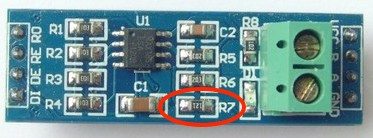
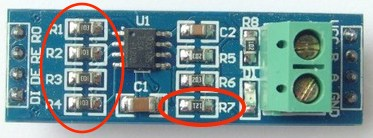
Updates for read-mes, and what-not

Changed region(s): [[0.0885, 0.0, 0.3539, 0.9855], [0.6193, 0.8406, 0.6488, 0.8696]]

diff --git a/README.md b/README.md
@@ -57,7 +57,83 @@ I've had a couple Raspberry Pi's laying about my home for a few years now. After
 HVAC system (a Bryant unit) is actually a 'communicating' system as well. I've had in the back of my mind for some time a project to hook up
 a raspberry pi, and track long-term time-series data on my HVAC unit, performance, and temperature differentials.
 
+### Off The Shelf Module Shortcomings / Circuit Analysis / Reasons this project exists.
 
+Almost every module I've looked at is based on the [MAX485](http://datasheets.maximintegrated.com/en/ds/MAX1487-MAX491.pdf).
+
+#### Overly simplistic opinionated view of RS-485.
+It seems that off-the-shelf modules tend to approach the MAX485 series of half-duplex (two wire RS485) chips as a pretty simple TTL->485 
+converter, suitable for locating at the _endpoints_ of a very simplistic single master-slave network. In order to drop in multiple modules 
+(multiple slaves) or enable multi-master communications and form a true network, there's some hardware work that needs to be done (removing
+termination resistors) and software control of the RE / DE with a GPIO (which open you up to a whole slew of software timing issues).
+
+#### Soldered on Termination
+For example, the LinkSprite module and the LC Tech modules both carry 120Ohm termination resistors, and no jumper header to remove it from
+the circuit. The only practical option to add these modules as a network node other than an 'end point' is to unsolder that resistor.
+
+#### Lack of TX / RX Visibility
+I like [blinkenlights](https://en.wikipedia.org/wiki/Blinkenlights). These products should have blinkenlights.
+
+#### DE / RE Pin Hysteresis 
+Additionally, the LC Tech module has the DE and RE pins of the Max485 directly accessible over headers but provides no extra circuitry to 
+drive the input to those pins based off the TTL TX. These two pins of a Max485 are responsible for setting the duplex state of the chip 
+(Driver Enable / Receiver Enable) for either sending or receiving data. The RE pin is active on Logic Low (GND) and the DE pin is active on 
+Logic High (~20ma of forward voltage). For this reason, you'll commonly see these pins wired together. When set High, the Max485 disables
+receiving, and enables transmitting. When pulled low, it enables receiving and disables transmitting. The LC Tech module seems to defy all 
+logic and reason in how it wires up the DI, DE, RE, and RO pins. Each pin has a 10k pull-up resistor. So unless you're actively draining 
+these pins to ground with your logic circuits,  your max485 is going to end up in "write" mode by _default_. In a multi-master half-duplex
+system like an HVAC unit (the initial target application for pi485) this causes a big problem.
+
+I've found many schematics which suggest tying the DE / RE pins to a separate GPIO. This is a terrible idea in practice. In a busy RS485 bus
+the time between the DI/DE pins shifting and the start of output on the TX pin would effectively guarantee a collision on the network.
+
+I've also found schematics for RS-232 -> RS-485 converters which work by converting the 232 signal to TTL, then the TTL to RS-485. In these
+circuits, they tend to leverage a 555 timer as a time-delayed latch, to hold the DE / RE pins in transmit mode based on the state of the TTL
+TX pin. This seems like a really good idea in theory, and in circuit simulations (I don't have a physical scope) it appears that the 555
+output will respond quickly enough for at least a 38400baud network to cleanly communicate all the necessary symbols over the wire (given 
+the sizing of resistors and capacitors in use with the 555).
+
+In this [555 TTL Latch Simulation](http://tinyurl.com/hx6gfwh), there's a +5V supply, GND, and a H/L logic input (clickable) on the left. 
+The output pin of the 555 has a H/L output detector on it, and drives an NPN transistor to turn on an LED. In a real circuit using this 
+technique, the 555 output pin would drive the DE/RE pins on a Max485. As an example, checkout the 
+[AVT530](http://serwis.avt.pl/manuals/AVT530.pdf), an RS232 to RS485 converter that uses TTL as an intermediary. The schematic is on page 2.
+
+The same company also uses this same 555 & Max485 circuit on their [USB to RS485](http://serwis.avt.pl/manuals/AVT530USB.pdf) converter.
+
+The down-side with these circuits, is that there is a timing differential after the TX pin stops transmitting that the RE pin is held high.
+Recall earlier I mentioned things about start / stop bits? This is where that comes into play.
+At 38400Hz (as in the simulation above) this delay accounts for an entire clock cycle of bit transmission on the bus. In the interactive 
+simulations above, note how if you switch the TTL input high (0 or idle) it takes 2 clocks before the 555 sets the output back low. If your
+bit protocol doesn't include a stop bit (idle / high) then the DE / RE will not be disabled at the appropriate time. Without stop bits, you 
+will transmit one extra idle (logical 1) on the 485 bus and miss receiving a bit for a clock with these latched circuits.
+
+Here's another [simulation of the 555 latch circuit with pulsed input](http://tinyurl.com/hn6zreu). In this revision, we've added a pull-up
+resistor (5k) to the input trigger to hold it 'high' when idle, moved the input clk to drive a decade counter, and tied output pins from the
+counter to switch an NPN transistor that sinks the trigger pin low when the counter has a high output. Think of the counter as sending 
+logical 1's and 0's by pushing a switch. When the switch (transistor) is closed, the TR voltage drops to ground. If you have start or stop
+bits enabled in your stream, this initial drop (0) will be the start bit, which will trigger the 555 output high. In the AVT circuits, this 
+drives the RE / DE pins high, putting the MAX485 into transmit mode. An idle 'high' stop bit (Q8) will let the timer's capacitor drain, 
+resetting it's output pin. But if you're not using start / stop bits... and you're just getting a stream of bits that is synchronized 
+in software, then using a 555 latch is going to be asking for trouble.
+
+In looking at the LinkSprite module, I found it interesting that it dispenses with a time-delay latch and supplies power to the DE / RE pins
+via MOSFETS switching a 0.33mA current based upon the TX input. This seems rather 'icky' to me, since logically I would think the DE / RE
+pins going 'high' whenever the TTL signal goes idle, would cause an issue. So I threw together a 
+[simulation of the TTL input with MOSFET](http://tinyurl.com/glnvxa2) triggers. This confirmed what I thought as far as behavior without 
+delay. The good news here, is if you're sending a '0' on the RS-485 bus, you'll transmit that 0, and be prepared to receive any values from
+the bus immediately afterward. So if your protocol doesn't use stop bits, you'll be able to read the stream without error. The natural
+question at this point is, "what if I'm trying to transmit a '1' (logical TTL high / idle value)?" In that case, the DE pin would be pulled
+low, along with the RE pin, putting the MAX485 into Driver disable, Receiver Enabled mode. I'm not sure if this would effectively pulse the
+RS-485 bus in an appropriate manner. The Bus signals bits based on bias differences between the two wires, A and B. Something about this
+arrangement smells funny.
+
+According to the stuff I've read on RS-485, a driver 'idle' would be A+, B- potentials. After pouring over the Max485 datasheet, I don't see
+anything that will lead me to believe RE high / DE low would result in A+, B- potentials being emitted on output lines of the chip.
+
+Nevertheless, it must work... right? Unless the LinkSprite and LC Tech components aren't being tested in multi-master half-duplex 
+networks. I have a feeling that's exactly what's going on, since they both carry soldered-on termination resistors that cannot be 
+jumper-disabled. That means that if you introduced a network of these devices with more than two nodes, you'd have pretty significant signal
+degradation.
 
 
 

diff --git a/standalone/README.md b/standalone/README.md
@@ -101,81 +101,6 @@ black-boxes (things which I cannot take apart or understand completely) and it's
 take that knowlege and apply it to things I synthesize. But, I consider electronics a 'hobby'. My comments here are my own personal opinions
 and are not an endorsement.
 
-## Off The Shelf Module Shortcomings / Circuit Analysis
-
-Almost every module I've looked at is based on the [MAX485](http://datasheets.maximintegrated.com/en/ds/MAX1487-MAX491.pdf).
-
-### Overly simplistic opinionated view of RS-485.
-It seems that off-the-shelf modules tend to approach the MAX485 series of half-duplex (two wire RS485) chips as a pretty simple TTL->485 
-converter, suitable for locating at the _endpoints_ of a very simplistic single master-slave network. In order to drop in multiple modules 
-(multiple slaves) or enable multi-master communications and form a true network, there's some hardware work that needs to be done (removing
-termination resistors) and software control of the RE / DE with a GPIO (which open you up to a whole slew of software timing issues).
-
-### Soldered on Termination
-For example, the LinkSprite module and the LC Tech modules both carry 120Ohm termination resistors, and no jumper header to remove it from
-the circuit. The only practical option to add these modules as a network node other than an 'end point' is to unsolder that resistor.
-
-### Lack of TX / RX Visibility
-I like [blinkenlights](https://en.wikipedia.org/wiki/Blinkenlights). These products should have blinkenlights.
-
-### DE / RE Pin Hysteresis 
-Additionally, the LC Tech module has the DE and RE pins of the Max485 directly accessible over headers but provides no extra circuitry to 
-drive the input to those pins based off the TTL TX. These two pins of a Max485 are responsible for setting the duplex state of the chip 
-(Driver Enable / Receiver Enable) for either sending or receiving data. The RE pin is active on Logic Low (GND) and the DE pin is active on 
-Logic High (~20ma of forward voltage). For this reason, you'll commonly see these pins wired together. When set High, the Max485 disables
-receiving, and enables transmitting. When pulled low, it enables receiving and disables transmitting.
-
-I've found many schematics which suggest tying the DE / RE pins to a separate GPIO. This is a terrible idea in practice. In a busy RS485 bus
-the time between the DI/DE pins shifting and the start of output on the TX pin would effectively guarantee a collision on the network.
-
-I've also found schematics for RS-232 -> RS-485 converters which work by converting the 232 signal to TTL, then the TTL to RS-485. In these
-circuits, they tend to leverage a 555 timer as a time-delayed latch, to hold the DE / RE pins in transmit mode based on the state of the TTL
-TX pin. This seems like a really good idea in theory, and in circuit simulations (I don't have a physical scope) it appears that the 555
-output will respond quickly enough for at least a 38400baud network to cleanly communicate all the necessary symbols over the wire (given 
-the sizing of resistors and capacitors in use with the 555).
-
-In this [555 TTL Latch Simulation](http://tinyurl.com/hx6gfwh), there's a +5V supply, GND, and a H/L logic input (clickable) on the left. 
-The output pin of the 555 has a H/L output detector on it, and drives an NPN transistor to turn on an LED. In a real circuit using this 
-technique, the 555 output pin would drive the DE/RE pins on a Max485. As an example, checkout the 
-[AVT530](http://serwis.avt.pl/manuals/AVT530.pdf), an RS232 to RS485 converter that uses TTL as an intermediary. The schematic is on page 2.
-
-The same company also uses this same 555 & Max485 circuit on their [USB to RS485](http://serwis.avt.pl/manuals/AVT530USB.pdf) converter.
-
-The down-side with these circuits, is that there is a timing differential after the TX pin stops transmitting that the RE pin is held high.
-Recall earlier I mentioned things about start / stop bits? This is where that comes into play.
-At 38400Hz (as in the simulation above) this delay accounts for an entire clock cycle of bit transmission on the bus. In the interactive 
-simulations above, note how if you switch the TTL input high (0 or idle) it takes 2 clocks before the 555 sets the output back low. If your
-bit protocol doesn't include a stop bit (idle / high) then the DE / RE will not be disabled at the appropriate time. Without stop bits, you 
-will transmit one extra idle (logical 1) on the 485 bus and miss receiving a bit for a clock with these latched circuits.
-
-Here's another [simulation of the 555 latch circuit with pulsed input](http://tinyurl.com/hn6zreu). In this revision, we've added a pull-up
-resistor (5k) to the input trigger to hold it 'high' when idle, moved the input clk to drive a decade counter, and tied output pins from the
-counter to switch an NPN transistor that sinks the trigger pin low when the counter has a high output. Think of the counter as sending 
-logical 1's and 0's by pushing a switch. When the switch (transistor) is closed, the TR voltage drops to ground. If you have start or stop
-bits enabled in your stream, this initial drop (0) will be the start bit, which will trigger the 555 output high. In the AVT circuits, this 
-drives the RE / DE pins high, putting the MAX485 into transmit mode. An idle 'high' stop bit (Q8) will let the timer's capacitor drain, 
-resetting it's output pin. But if you're not using start / stop bits... and you're just getting a stream of bits that is synchronized 
-in software, then using a 555 latch is going to be asking for trouble.
-
-In looking at the LinkSprite module, I found it interesting that it dispenses with a time-delay latch and supplies power to the DE / RE pins
-via MOSFETS switching a 0.33mA current based upon the TX input. This seems rather 'icky' to me, since logically I would think the DE / RE
-pins going 'high' whenever the TTL signal goes idle, would cause an issue. So I threw together a 
-[simulation of the TTL input with MOSFET](http://tinyurl.com/glnvxa2) triggers. This confirmed what I thought as far as behavior without 
-delay. The good news here, is if you're sending a '0' on the RS-485 bus, you'll transmit that 0, and be prepared to receive any values from
-the bus immediately afterward. So if your protocol doesn't use stop bits, you'll be able to read the stream without error. The natural
-question at this point is, "what if I'm trying to transmit a '1' (logical TTL high / idle value)?" In that case, the DE pin would be pulled
-low, along with the RE pin, putting the MAX485 into Driver disable, Receiver Enabled mode. I'm not sure if this would effectively pulse the
-RS-485 bus in an appropriate manner. The Bus signals bits based on bias differences between the two wires, A and B. Something about this
-arrangement smells funny.
-
-According to the stuff I've read on RS-485, a driver 'idle' would be A+, B- potentials. After pouring over the Max485 datasheet, I don't see
-anything that will lead me to believe RE high / DE low would result in A+, B- potentials being emitted on output lines of the chip.
-
-Nevertheless, it must work... right? Unless the LinkSprite and LC Tech components aren't being tested in multi-master half-duplex 
-networks. I have a feeling that's exactly what's going on, since they both carry soldered-on termination resistors that cannot be 
-jumper-disabled. That means that if you introduced a network of these devices with more than two nodes, you'd have pretty significant signal
-degradation.
-
 # Build Instructions
 
 1. Start off by customizing the resistor values for your LEDs. I used [http://ledcalc.com/] to help inspire my choices.

diff --git a/bearer/README.md b/bearer/README.md
@@ -41,5 +41,5 @@ For in-depth details on the function of [the circuit](plots/pi485bearer.png) ref
 11. Drill the component holes.
 12. Place & solder components.
 13. Assemble!
-14. Remove the 120Ohm resistor (R7) from the LC Tech 485 Module.
+14. Remove the 120Ohm resistor (R7), and the 4 10kOhm resistors (R1 - R4) from the LC Tech 485 Module.
     ![R7 Has to Go](lctech485-r7.jpg)
